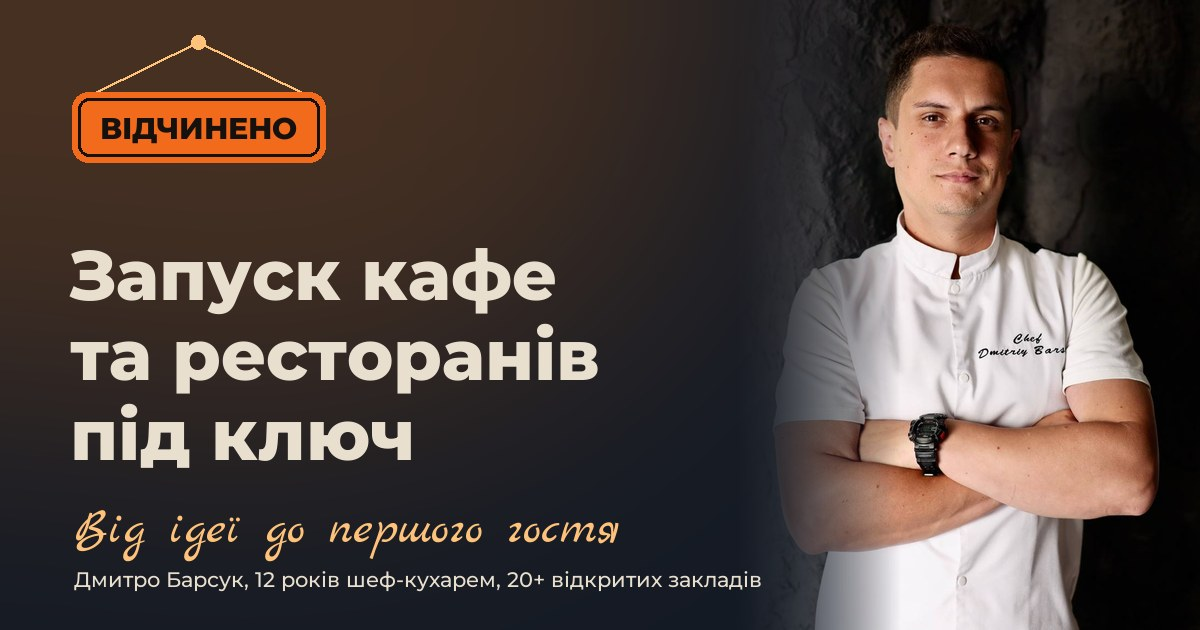
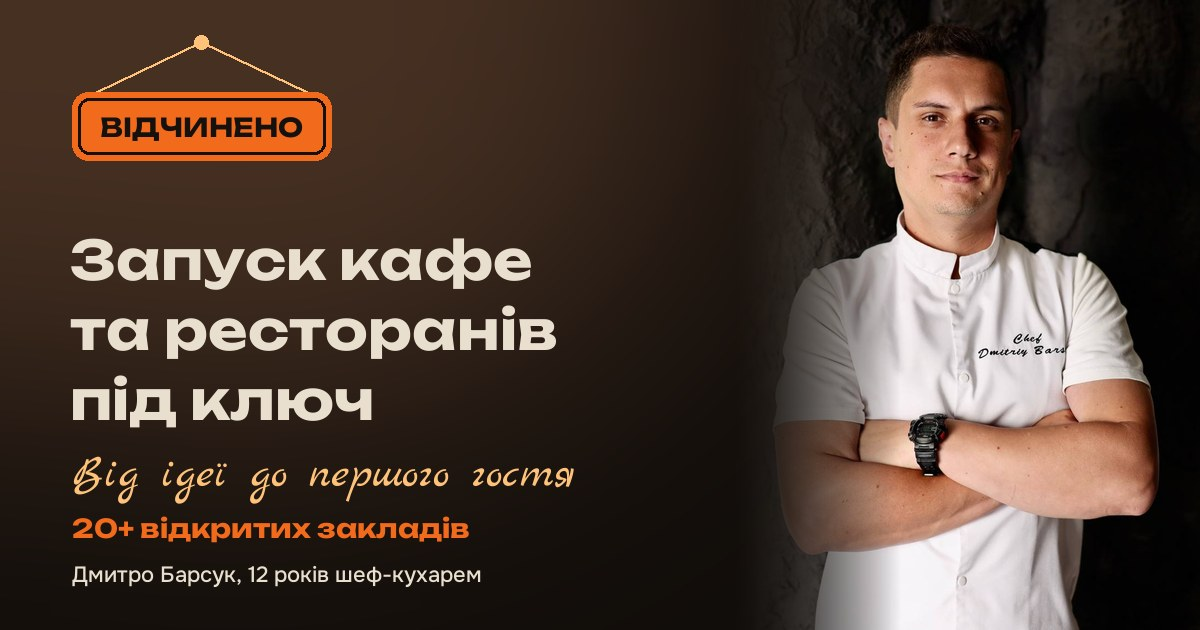
Превʼю посилання новим шрифтом

diff --git a/index.html b/index.html
@@ -12,7 +12,7 @@
 <meta property="og:url" content="https://timoshes229-beep.github.io/vidchyneno/">
 <meta property="og:title" content="ВІДЧИНЕНО: запуск кафе та ресторанів під ключ">
 <meta property="og:description" content="Від ідеї до першого гостя. Дмитро Барсук, 12 років шеф-кухарем, 20+ відкритих закладів.">
-<meta property="og:image" content="https://timoshes229-beep.github.io/vidchyneno/assets/og-image.jpg">
+<meta property="og:image" content="https://timoshes229-beep.github.io/vidchyneno/assets/og-image.jpg?v=2">
 <meta property="og:image:width" content="1200">
 <meta property="og:image:height" content="630">
 <meta property="og:image:alt" content="Дмитро Барсук і вивіска «Відчинено»">
